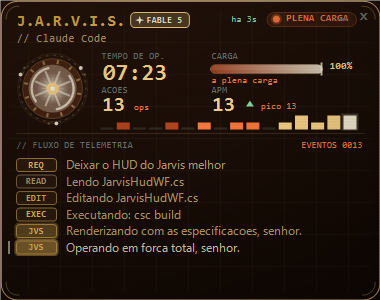
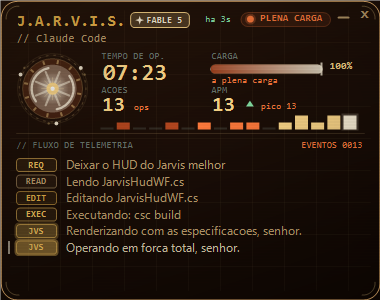
v1.3.1: botão minimizar visível (não some mais sob a cápsula de status)
O botao '–' era desenhado sobre a capsula 'OPERANDO' (a capsula ia ate
W-24 e o botao ficava em W-46..W-30, por baixo) e ainda em cor Faint =
invisivel. Fix: os 2 botoes (– e x) vao pro canto sup-direito em AMBAR
visivel, e a capsula de status recua (sx = W-56-sw) p/ abrir espaco. O
– ganhou cap redondo e 2px; alinhado com o x. Regiao de clique ja casava
(mesmo minRect), so o desenho estava escondido.

Changed region(s): [[0.5211, 0.03, 0.9842, 0.09]]

diff --git a/hud-native/JarvisHudWF.cs b/hud-native/JarvisHudWF.cs
@@ -83,7 +83,7 @@ class JarvisHudWF : Form {
   const int MORPH_MS = 300, MINI_W = 182, MINI_H = 54;
   int morphAnchorRight = 0, morphAnchorTop = 0;
   Bitmap fullShot = null, miniShotBmp = null, miniBg = null; bool miniBgDirty = true;
-  static Rectangle minRect = new Rectangle(W - 46, 9, 16, 16);              // botao minimizar (cheio)
+  static Rectangle minRect = new Rectangle(W - 45, 8, 16, 18);              // botao minimizar (cheio)
   static Rectangle miniCloseRect = new Rectangle(MINI_W - 16, 5, 11, 11);   // fechar (mini)
   [System.Runtime.InteropServices.DllImport("winmm.dll")] static extern uint timeBeginPeriod(uint p);
   [System.Runtime.InteropServices.DllImport("winmm.dll")] static extern uint timeEndPeriod(uint p);
@@ -121,7 +121,7 @@ class JarvisHudWF : Form {
   Font fClose = new Font("Consolas", 11f, FontStyle.Bold);
 
   const int W = 380, H = 300, PAD = 16, RAD = 16;
-  static Rectangle closeRect = new Rectangle(W - 26, 9, 18, 18);
+  static Rectangle closeRect = new Rectangle(W - 24, 8, 16, 18);   // fechar (canto sup-direito)
   Rectangle atomRect = new Rectangle(PAD - 4, 48, 80, 84);
 
   // ---- layout das metricas / sparkline ----
@@ -868,7 +868,7 @@ class JarvisHudWF : Form {
     Color sc = status == "OPERANDO" ? HC(Amber, Ember) : status == "ENCERRADO" ? Faint : Online;
     string stxt = (heat >= 0.5 && status == "OPERANDO") ? "PLENA CARGA" : status;
     float sw = g.MeasureString(stxt, fStat).Width;
-    float sx = W - 30 - sw;
+    float sx = W - 56 - sw;                                          // recuado p/ abrir espaco aos 2 botoes
     using (var pillP = RoundedPath(sx - 18, 12, sw + 24, 14, 7)) {   // capsula do status
       using (var pf = new SolidBrush(Color.FromArgb(26, sc))) g.FillPath(pf, pillP);
       using (var pp = new Pen(Color.FromArgb(70, sc), 1f)) g.DrawPath(pp, pillP);
@@ -877,8 +877,9 @@ class JarvisHudWF : Form {
     using (var hb2 = new SolidBrush(Color.FromArgb((int)(40 + 55 * dk), sc))) g.FillEllipse(hb2, sx - 14, 13, 11, 11);
     using (var b = new SolidBrush(sc)) g.FillEllipse(b, sx - 12, 15, 7, 7);
     g.DrawString(stxt, fStat, B(sc), sx, 12);
-    g.DrawString("x", fClose, B(Faint), closeRect.X + 3, closeRect.Y - 2);
-    using (var mp = new Pen(Faint, 1.6f)) g.DrawLine(mp, minRect.X + 3, minRect.Y + 10, minRect.X + 13, minRect.Y + 10);   // botao minimizar (traco)
+    // ---- botoes MINIMIZAR (–) e FECHAR (x), no canto sup-direito, em ambar visivel ----
+    using (var mp = new Pen(AmberMut, 2f)) { mp.StartCap = LineCap.Round; mp.EndCap = LineCap.Round; g.DrawLine(mp, minRect.X + 3, minRect.Y + 9, minRect.X + 13, minRect.Y + 9); }
+    g.DrawString("x", fClose, B(AmberMut), closeRect.X + 2, closeRect.Y - 3);
 
     // "HA Xs" (frescor): responde travou-ou-pensando, quase gratis (1 subtracao/1 string)
     string idleTxt = IdleText();